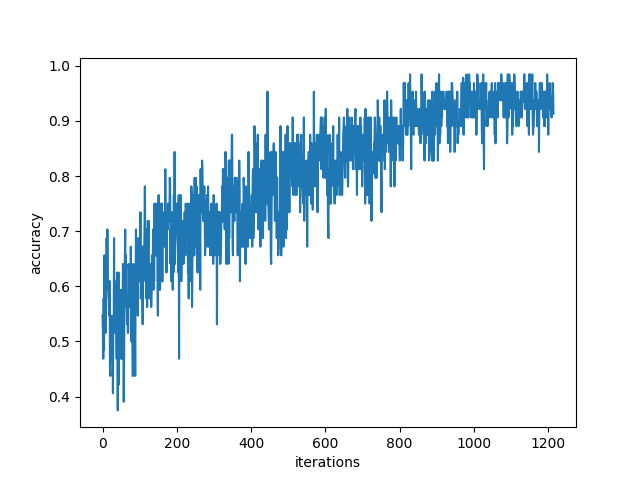
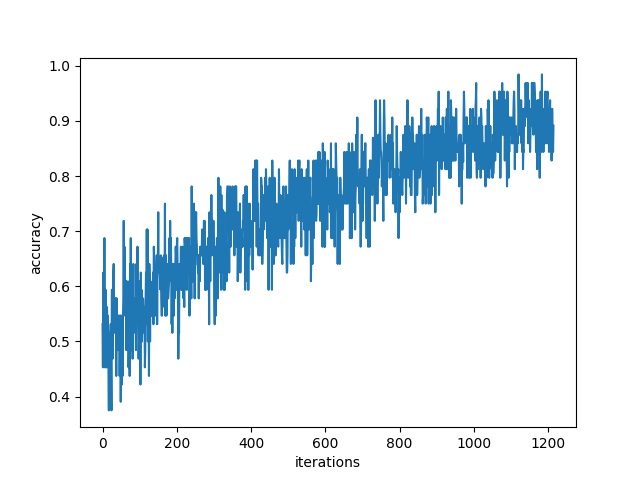
Best so far

Changed region(s): [[0.1562, 0.1562, 0.875, 0.875]]

diff --git a/Nick_tests/replicate/gender_model.py b/Nick_tests/replicate/gender_model.py
@@ -234,7 +234,7 @@ model.type(dtype)
 model.train()
 loss_fn = nn.CrossEntropyLoss().type(dtype)
 # 1e-1 too high
-optimizer = optim.Adam(model.parameters(), lr=1e-4,weight_decay=1e-3)
+optimizer = optim.Adam(model.parameters(), lr=1e-4,weight_decay=5e-3)
 print("start training")
 loss_history,acc_history,val_acc_history=train(train_loader,val_loader, model, loss_fn, optimizer, dtype,num_epochs=15, print_every=17)
 
